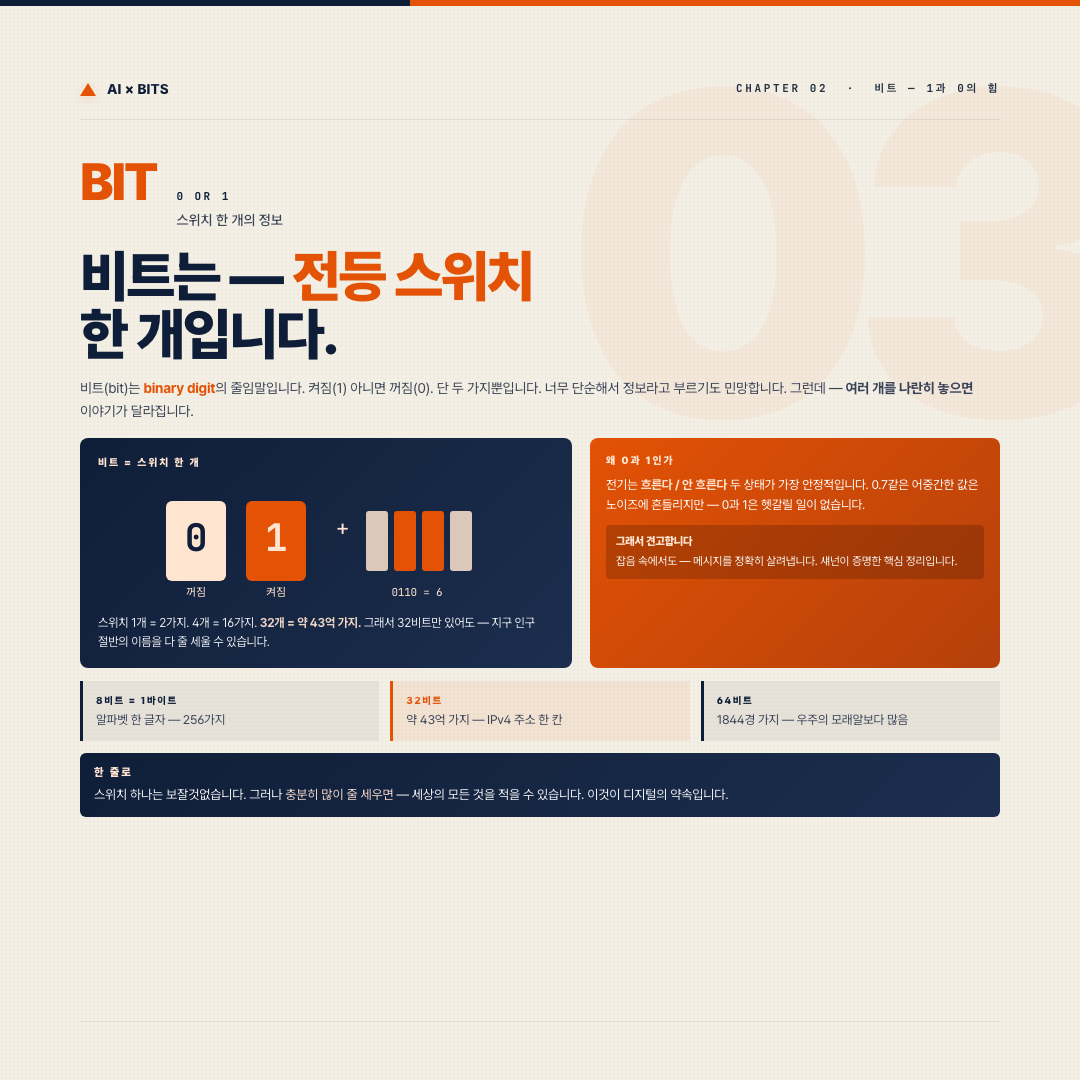
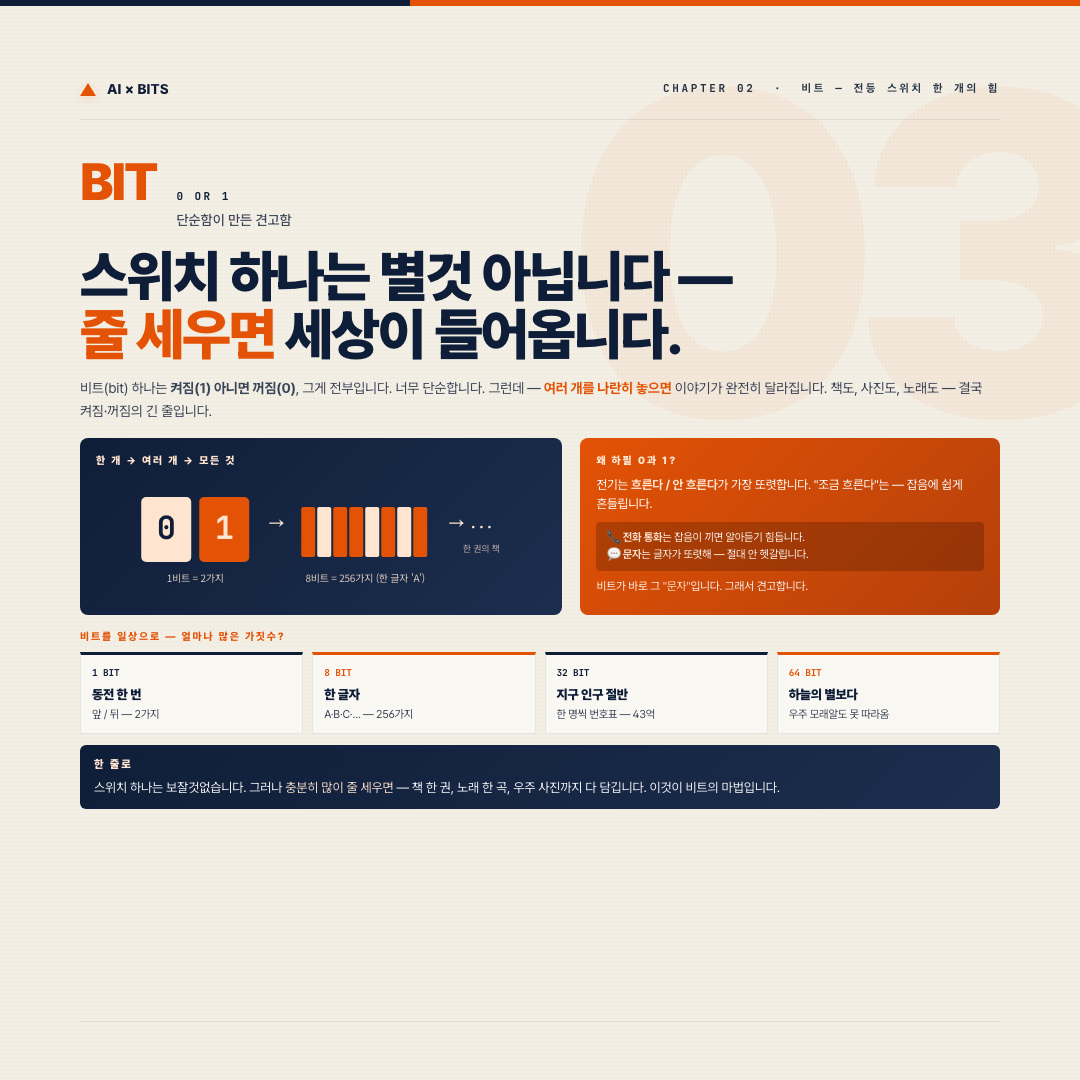
edit(bits 03): 비트 슬라이드 일반인 친화로 다시 풀어쓰기
- 헤드라인 "스위치 하나는 별것 아닙니다 — 줄 세우면 세상이 들어옵니다"
- 0과 1을 0→8→…→책 한 권으로 SVG 진행
- 0/1 견고함을 전화 통화(잡음) vs 문자(또렷함) 비유
- 비트 수 비교 4박스를 일상 단위로: 동전 한 번 / 한 글자 / 지구 인구 절반 / 하늘의 별보다
- IPv4 같은 전문 용어 제거

diff --git a/26-cards-bits/03-bit.html b/26-cards-bits/03-bit.html
@@ -8,63 +8,81 @@
   <div class="stage">
     <div class="header">
       <div class="brandmark"><span class="tri"></span> AI &times; BITS</div>
-      <div class="chaptertag">CHAPTER 02 &nbsp;&middot;&nbsp; 비트 &mdash; 1과 0의 힘</div>
+      <div class="chaptertag">CHAPTER 02 &nbsp;&middot;&nbsp; 비트 — 전등 스위치 한 개의 힘</div>
     </div>
     <div class="era">
       <span class="year">BIT</span>
-      <span class="label"><b>0 OR 1</b><span class="sub">스위치 한 개의 정보</span></span>
+      <span class="label"><b>0 OR 1</b><span class="sub">단순함이 만든 견고함</span></span>
     </div>
-    <h1 class="title sm">비트는 &mdash; <em>전등 스위치</em><br />한 개입니다.</h1>
+    <h1 class="title sm">스위치 하나는 별것 아닙니다 —<br /><em>줄 세우면</em> 세상이 들어옵니다.</h1>
 
-    <p class="body-sm" style="margin-top:12px; font-size:14px;">비트(bit)는 <em>binary digit</em>의 줄임말입니다. 켜짐(1) 아니면 꺼짐(0). 단 두 가지뿐입니다. 너무 단순해서 정보라고 부르기도 민망합니다. 그런데 &mdash; <b>여러 개를 나란히 놓으면</b> 이야기가 달라집니다.</p>
+    <p class="body-sm" style="margin-top:12px; font-size:14px;">비트(bit) 하나는 <b>켜짐(1) 아니면 꺼짐(0)</b>, 그게 전부입니다. 너무 단순합니다. 그런데 — <em>여러 개를 나란히 놓으면</em> 이야기가 완전히 달라집니다. 책도, 사진도, 노래도 — 결국 켜짐·꺼짐의 긴 줄입니다.</p>
 
-    <div style="margin-top:14px; display:grid; grid-template-columns:1.2fr 1fr; gap:18px;">
-      <div style="padding:16px 18px; background:linear-gradient(135deg, #0f1e38, #1c2e4e); border-radius:8px; color:white;">
-        <div style="font-size:10.5px; letter-spacing:0.18em; font-weight:900; color:#FFE4D0;">비트 = 스위치 한 개</div>
-        <svg width="100%" height="120" viewBox="0 0 360 120" style="margin-top:10px;">
-          <rect x="20" y="20" width="60" height="80" rx="6" fill="#FFE4D0" />
-          <text x="50" y="70" text-anchor="middle" font-family="JetBrains Mono" font-size="38" font-weight="900" fill="#0f1e38">0</text>
-          <text x="50" y="115" text-anchor="middle" font-family="Noto Sans KR" font-size="11" fill="#FFE4D0">꺼짐</text>
-          <rect x="100" y="20" width="60" height="80" rx="6" fill="#E35205" />
-          <text x="130" y="70" text-anchor="middle" font-family="JetBrains Mono" font-size="38" font-weight="900" fill="#FFE4D0">1</text>
-          <text x="130" y="115" text-anchor="middle" font-family="Noto Sans KR" font-size="11" fill="#FFE4D0">켜짐</text>
-          <text x="190" y="55" font-family="JetBrains Mono" font-size="22" fill="#FFE4D0">+</text>
-          <rect x="220" y="30" width="22" height="60" rx="3" fill="#FFE4D0" opacity="0.85"/>
-          <rect x="248" y="30" width="22" height="60" rx="3" fill="#E35205"/>
-          <rect x="276" y="30" width="22" height="60" rx="3" fill="#E35205"/>
-          <rect x="304" y="30" width="22" height="60" rx="3" fill="#FFE4D0" opacity="0.85"/>
-          <text x="271" y="115" text-anchor="middle" font-family="JetBrains Mono" font-size="11" fill="#FFE4D0">0110 = 6</text>
+    <div style="margin-top:14px; display:grid; grid-template-columns:1.15fr 1fr; gap:18px;">
+      <div style="padding:14px 16px; background:linear-gradient(135deg, #0f1e38, #1c2e4e); border-radius:8px; color:white;">
+        <div style="font-size:10.5px; letter-spacing:0.18em; font-weight:900; color:#FFE4D0;">한 개 → 여러 개 → 모든 것</div>
+        <svg width="100%" height="115" viewBox="0 0 380 115" style="margin-top:8px;">
+          <rect x="10" y="20" width="50" height="65" rx="5" fill="#FFE4D0"/>
+          <text x="35" y="62" text-anchor="middle" font-family="JetBrains Mono" font-size="32" font-weight="900" fill="#0f1e38">0</text>
+          <rect x="68" y="20" width="50" height="65" rx="5" fill="#E35205"/>
+          <text x="93" y="62" text-anchor="middle" font-family="JetBrains Mono" font-size="32" font-weight="900" fill="#FFE4D0">1</text>
+          <text x="64" y="105" text-anchor="middle" font-family="Noto Sans KR" font-size="10" fill="#FFE4D0" opacity="0.85">1비트 = 2가지</text>
+          <text x="138" y="55" font-family="JetBrains Mono" font-size="22" fill="#FFE4D0">→</text>
+          <g>
+            <rect x="170" y="30" width="14" height="50" rx="2" fill="#E35205"/>
+            <rect x="186" y="30" width="14" height="50" rx="2" fill="#FFE4D0"/>
+            <rect x="202" y="30" width="14" height="50" rx="2" fill="#E35205"/>
+            <rect x="218" y="30" width="14" height="50" rx="2" fill="#E35205"/>
+            <rect x="234" y="30" width="14" height="50" rx="2" fill="#FFE4D0"/>
+            <rect x="250" y="30" width="14" height="50" rx="2" fill="#E35205"/>
+            <rect x="266" y="30" width="14" height="50" rx="2" fill="#FFE4D0"/>
+            <rect x="282" y="30" width="14" height="50" rx="2" fill="#E35205"/>
+          </g>
+          <text x="234" y="105" text-anchor="middle" font-family="Noto Sans KR" font-size="10" fill="#FFE4D0" opacity="0.85">8비트 = 256가지 (한 글자 'A')</text>
+          <text x="318" y="55" font-family="JetBrains Mono" font-size="22" fill="#FFE4D0">→</text>
+          <text x="350" y="55" text-anchor="middle" font-family="JetBrains Mono" font-size="14" font-weight="900" fill="#FFE4D0">···</text>
+          <text x="350" y="75" text-anchor="middle" font-family="Noto Sans KR" font-size="9" fill="#FFE4D0" opacity="0.7">한 권의 책</text>
         </svg>
-        <div style="font-size:12px; line-height:1.55; margin-top:4px; opacity:0.92;">스위치 1개 = 2가지. 4개 = 16가지. <b style="color:#FFE4D0;">32개 = 약 43억 가지.</b> 그래서 32비트만 있어도 &mdash; 지구 인구 절반의 이름을 다 줄 세울 수 있습니다.</div>
       </div>
       <div style="padding:14px 16px; background:linear-gradient(135deg, #E35205, #B5400B); border-radius:8px; color:white;">
-        <div style="font-size:10.5px; letter-spacing:0.18em; font-weight:900; color:#FFE4D0;">왜 0과 1인가</div>
-        <div style="font-size:12.5px; line-height:1.6; margin-top:6px;">전기는 <b style="color:#FFE4D0;">흐른다 / 안 흐른다</b> 두 상태가 가장 안정적입니다. 0.7같은 어중간한 값은 노이즈에 흔들리지만 &mdash; 0과 1은 헷갈릴 일이 없습니다.</div>
-        <div style="margin-top:10px; padding:8px 10px; background:rgba(0,0,0,0.18); border-radius:4px;">
-          <div style="font-size:11px; font-weight:900; color:#FFE4D0;">그래서 견고합니다</div>
-          <div style="font-size:11.5px; line-height:1.5; margin-top:3px; opacity:0.95;">잡음 속에서도 &mdash; 메시지를 정확히 살려냅니다. 섀넌이 증명한 핵심 정리입니다.</div>
+        <div style="font-size:10.5px; letter-spacing:0.18em; font-weight:900; color:#FFE4D0;">왜 하필 0과 1?</div>
+        <div style="font-size:12.5px; line-height:1.55; margin-top:6px;">전기는 <b style="color:#FFE4D0;">흐른다 / 안 흐른다</b>가 가장 또렷합니다. "조금 흐른다"는 — 잡음에 쉽게 흔들립니다.</div>
+        <div style="margin-top:9px; padding:8px 10px; background:rgba(0,0,0,0.2); border-radius:4px;">
+          <div style="font-size:11px; line-height:1.5; opacity:0.95;">📞 <b style="color:#FFE4D0;">전화 통화</b>는 잡음이 끼면 알아듣기 힘듭니다.<br />💬 <b style="color:#FFE4D0;">문자</b>는 글자가 또렷해 — 절대 안 헷갈립니다.</div>
+        </div>
+        <div style="font-size:11.5px; line-height:1.5; margin-top:7px; opacity:0.92;">비트가 바로 그 <em style="color:#FFE4D0;">"문자"</em>입니다. 그래서 견고합니다.</div>
+      </div>
+    </div>
+
+    <div style="margin-top:13px;">
+      <div style="font-size:10.5px; letter-spacing:0.18em; color:var(--brand); font-weight:800; margin-bottom:7px;">비트를 일상으로 — 얼마나 많은 가짓수?</div>
+      <div style="display:grid; grid-template-columns:1fr 1fr 1fr 1fr; gap:9px;">
+        <div style="padding:10px 11px; background:rgba(255,255,255,0.55); border:1px solid var(--line); border-top:3px solid var(--navy);">
+          <div style="font-family:var(--f-mono); font-size:9.5px; color:var(--navy); font-weight:800;">1 BIT</div>
+          <div style="font-size:13px; font-weight:900; color:var(--navy); margin-top:3px;">동전 한 번</div>
+          <div style="font-size:11px; line-height:1.45; color:var(--ink-body); margin-top:2px;">앞 / 뒤 — 2가지</div>
+        </div>
+        <div style="padding:10px 11px; background:rgba(255,255,255,0.55); border:1px solid var(--line); border-top:3px solid var(--brand);">
+          <div style="font-family:var(--f-mono); font-size:9.5px; color:var(--brand); font-weight:800;">8 BIT</div>
+          <div style="font-size:13px; font-weight:900; color:var(--navy); margin-top:3px;">한 글자</div>
+          <div style="font-size:11px; line-height:1.45; color:var(--ink-body); margin-top:2px;">A·B·C·… — 256가지</div>
+        </div>
+        <div style="padding:10px 11px; background:rgba(255,255,255,0.55); border:1px solid var(--line); border-top:3px solid var(--navy);">
+          <div style="font-family:var(--f-mono); font-size:9.5px; color:var(--navy); font-weight:800;">32 BIT</div>
+          <div style="font-size:13px; font-weight:900; color:var(--navy); margin-top:3px;">지구 인구 절반</div>
+          <div style="font-size:11px; line-height:1.45; color:var(--ink-body); margin-top:2px;">한 명씩 번호표 — 43억</div>
+        </div>
+        <div style="padding:10px 11px; background:rgba(255,255,255,0.55); border:1px solid var(--line); border-top:3px solid var(--brand);">
+          <div style="font-family:var(--f-mono); font-size:9.5px; color:var(--brand); font-weight:800;">64 BIT</div>
+          <div style="font-size:13px; font-weight:900; color:var(--navy); margin-top:3px;">하늘의 별보다</div>
+          <div style="font-size:11px; line-height:1.45; color:var(--ink-body); margin-top:2px;">우주 모래알도 못 따라옴</div>
         </div>
       </div>
     </div>
 
-    <div style="margin-top:13px; display:grid; grid-template-columns:1fr 1fr 1fr; gap:11px;">
-      <div style="padding:11px 13px; background:rgba(15,30,56,0.06); border-left:3px solid var(--navy);">
-        <div style="font-size:10px; letter-spacing:0.16em; color:var(--navy); font-weight:800;">8비트 = 1바이트</div>
-        <div style="font-size:12.5px; line-height:1.5; color:var(--ink-body); margin-top:3px;">알파벳 한 글자 &mdash; 256가지</div>
-      </div>
-      <div style="padding:11px 13px; background:rgba(227,82,5,0.08); border-left:3px solid var(--brand);">
-        <div style="font-size:10px; letter-spacing:0.16em; color:var(--brand); font-weight:800;">32비트</div>
-        <div style="font-size:12.5px; line-height:1.5; color:var(--ink-body); margin-top:3px;">약 43억 가지 &mdash; IPv4 주소 한 칸</div>
-      </div>
-      <div style="padding:11px 13px; background:rgba(15,30,56,0.06); border-left:3px solid var(--navy);">
-        <div style="font-size:10px; letter-spacing:0.16em; color:var(--navy); font-weight:800;">64비트</div>
-        <div style="font-size:12.5px; line-height:1.5; color:var(--ink-body); margin-top:3px;">1844경 가지 &mdash; 우주의 모래알보다 많음</div>
-      </div>
-    </div>
-
-    <div style="margin-top:12px; padding:11px 14px; background:linear-gradient(135deg, #0f1e38, #1c2e4e); border-radius:6px; color:white;">
+    <div style="margin-top:11px; padding:11px 14px; background:linear-gradient(135deg, #0f1e38, #1c2e4e); border-radius:6px; color:white;">
       <div style="font-size:11px; letter-spacing:0.18em; font-weight:900; color:#FFE4D0;">한 줄로</div>
-      <div style="font-size:13px; line-height:1.55; opacity:0.94; margin-top:4px;">스위치 하나는 보잘것없습니다. 그러나 <em style="color:#FFE4D0;">충분히 많이 줄 세우면</em> &mdash; 세상의 모든 것을 적을 수 있습니다. 이것이 디지털의 약속입니다.</div>
+      <div style="font-size:13px; line-height:1.55; opacity:0.94; margin-top:4px;">스위치 하나는 보잘것없습니다. 그러나 <em style="color:#FFE4D0;">충분히 많이 줄 세우면</em> — 책 한 권, 노래 한 곡, 우주 사진까지 다 담깁니다. 이것이 비트의 마법입니다.</div>
     </div>
 
     <div class="foot">
